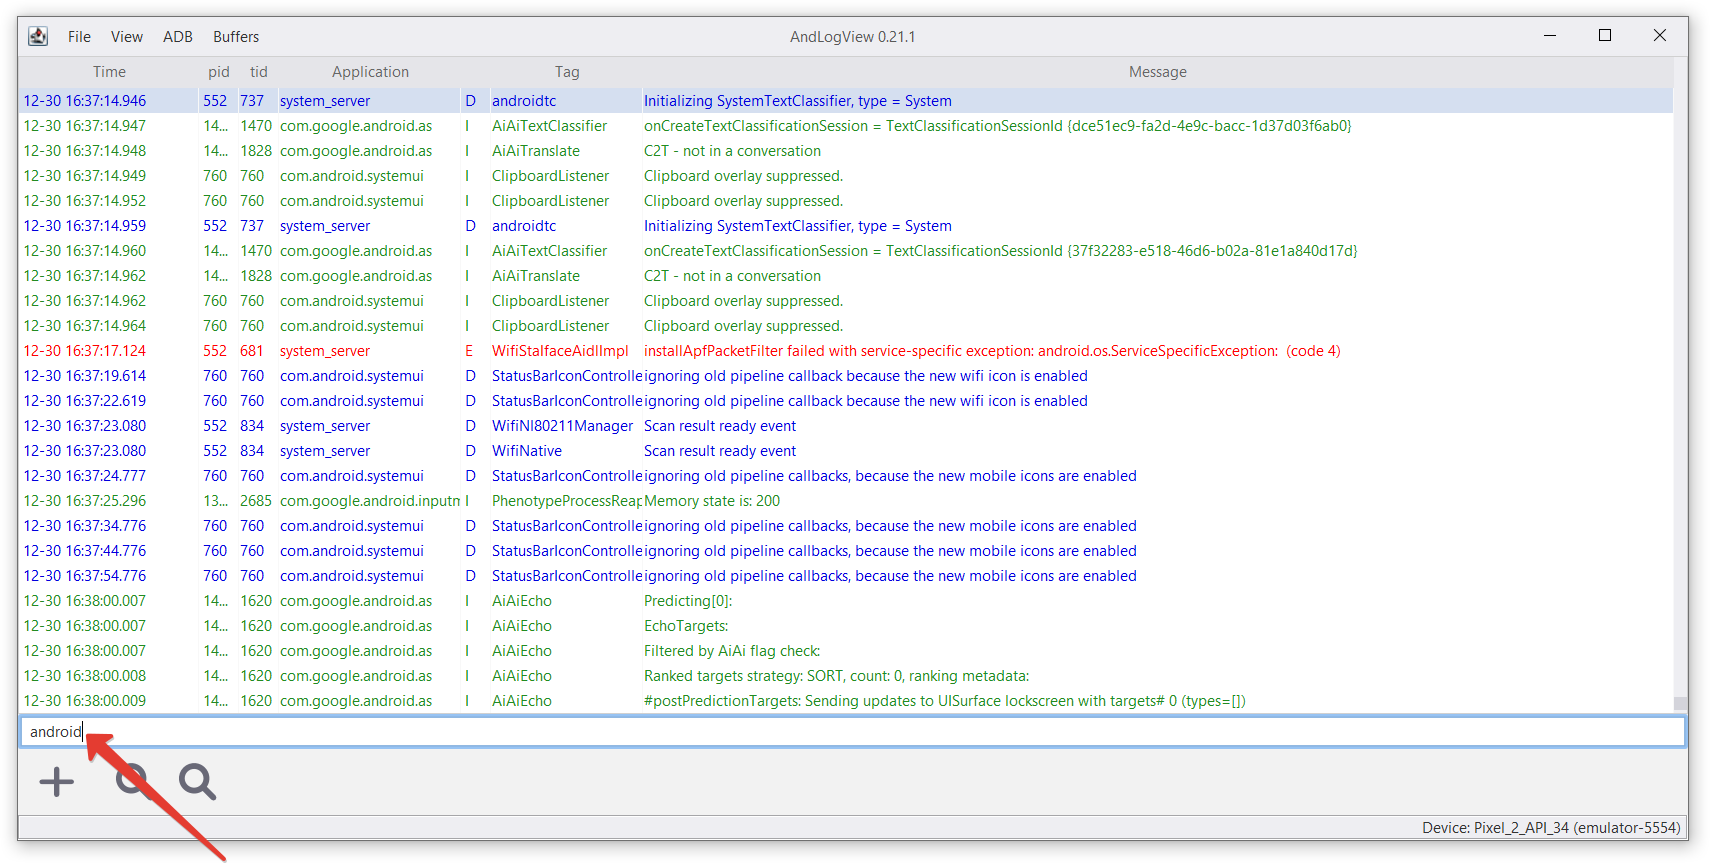
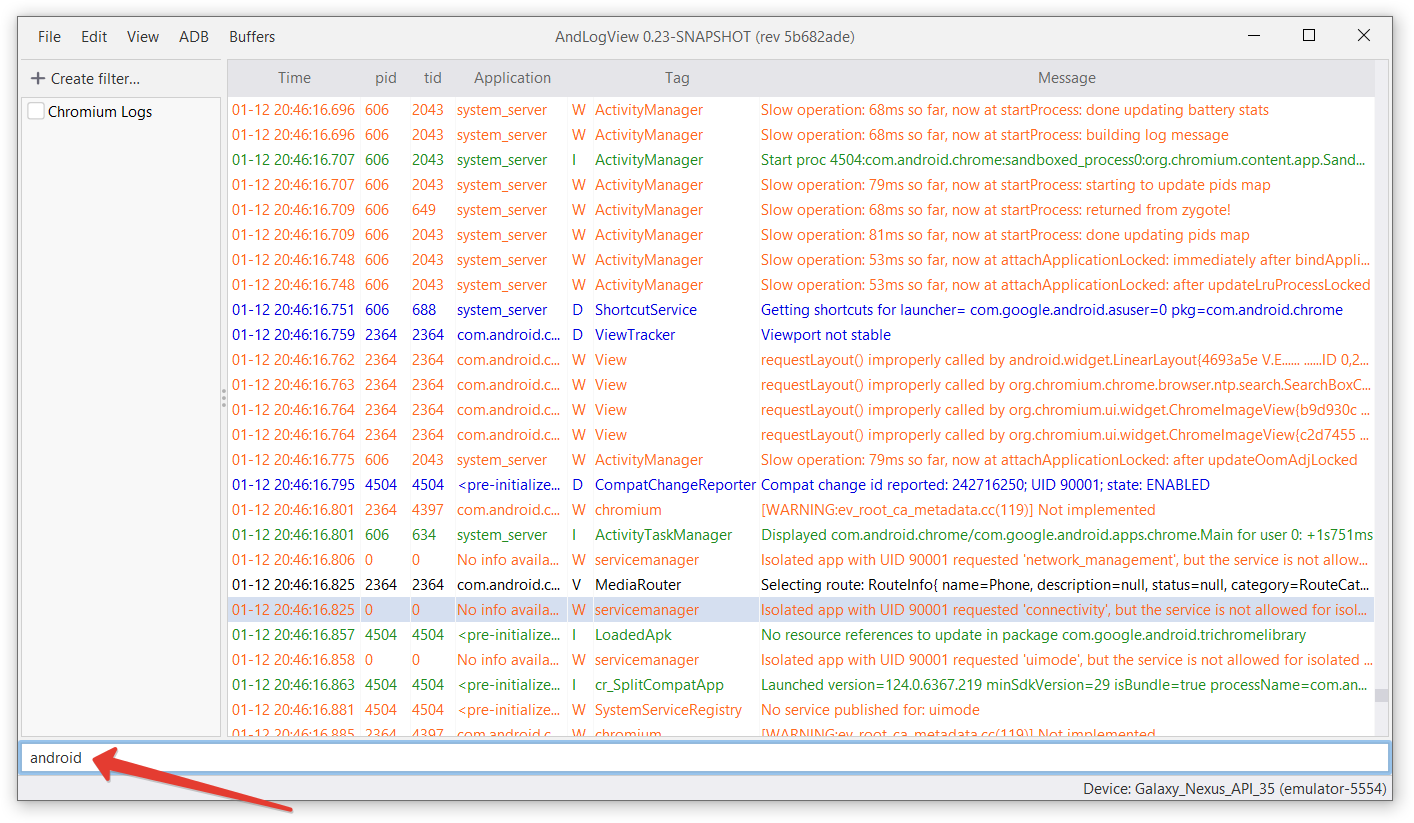
Update docs to cover filter lists
Issue: #426

Changed region(s): [[0.0, 0.0304, 0.9958, 1.0], [0.4045, 0.0304, 0.5912, 0.0608]]

diff --git a/docs/site/content/user_manual/filters/_index.en.md b/docs/site/content/user_manual/filters/_index.en.md
@@ -11,25 +11,28 @@ highlighted with a background color, hidden, or displayed in a separate window.
 
 ## Creating a filter
 
-Use "Add new filter" button to create a new filter:
+Use "Create filter…" button to create a new filter:
 
-![Add new filter button](add_filter.png)
+![Create filter button](add_filter.png)
 
 A filter creation dialog appears:
 
 !["Create new filter" dialog](create_filter.png)
 
-You can then specify filter criteria here:
+You can then specify the name of the filter and filtering criteria here:
+- "Name" -- the optional display name used, e.g. in the filter list. Without a
+   name the visual representation of the filter is derived from the criteria it
+   has.
 - "Tags to filter" -- the comma-separated list of tags to match
-- "Message text to filter" - the message substring to match
-- "<abbr title="Process IDentifier">PIDs</abbr> or app names to filter" -
+- "Message text to filter" -- the message substring to match
+- "<abbr title="Process IDentifier">PIDs</abbr> or app names to filter" --
   the comma-separated list of integer PIDs or app names.
-- "Log level" - the minimal log level to match.
+- "Log level" -- the minimal log level to match.
 
-If you specify multiple tags, then line need to match any of them to match. The
-same applies to PIDs and app names.
+If you specify multiple tags, then a line need to match any of them to match the
+filter. The same applies to PIDs and app names.
 
-The filter matches the log line only if all criterias are fulfilled. For
+The filter matches the log line only if all criteria are fulfilled. For
 example, if the filter specifies `tag=Foo` and `PID=143, 144` then lines with
 the tag `Foo` from PID 441 wouldn't match.
 
@@ -42,10 +45,15 @@ The radio buttons determine the filter's action. The matched lines can be:
 ## Index window
 
 An index window is a separate window that only shows lines matching the filter.
-You can double-click on line numbers in the index window to scroll the main
+You can double-click line numbers in the index window to scroll the main
 window to them.
 
 ![Index window](index_window.png)
+
+{{< hint type=note >}}
+The lines visible in the filter are affected by the "show" and "hide" filters,
+and the relative order of filters in the list.
+{{< /hint >}}
 
 ## Filter criteria
 ### Tags
@@ -101,7 +109,7 @@ to match the whole string only.
 It is safe to use the slash symbol `/` in the regular expression. However,
 commas in tag and app name patterns must be escaped by doubling it. For example,
 to use the pattern `/foo, bar/` as a tag pattern you must enter it as
-`/foo,, bar/`. Otherwise it is going to be interpreted as two simple patterns
+`/foo,, bar/`. Otherwise, it is going to be interpreted as two simple patterns
 `/foo` and `bar/`.
 
 [java_pattern]: http://download.oracle.com/javase/8/docs/api/java/util/regex/Pattern.html
@@ -116,45 +124,44 @@ If you have created multiple filters the following rules apply:
 4. If there is a highlighting filter and the log line isn't hidden by the rules
    above, it is highlighted with the corresponding color
 5. If the line was added to bookmarks and isn't hidden it is highlighted
-6. Lines that are hidden in the main window, are not visible in index windows.
+6. Index window applies all show and hide filters of the main window that
+   precede its filter in the filter list.
 
-Only lines in the main window are highlighted.
+Only lines in the main window are highlighted. The highlight color is determined
+by the last highlighting filter.
 
-## Filter panel
+## Filter list
 
-The filter panel is located to the right of the "Add new filter" button. Each
-filter has a corresponding button on the filter panel.
+The filter list is located on the right side of the main window. Each
+filter has a corresponding entry in the filter list. The entry shows either the
+name of the filter if it has one, or a summary of the filter's action and
+criteria.
 
-![Filter panel](filter_panel.png)
+![Filter list](filter_tree.png)
 
-{{< hint type=tip >}}
-Double-clicking the empty space of the filter panes opens the filter creation
-dialog too.
-{{< /hint >}}
-
-The filter button can be in two states: pressed, when the filter is active, and
-not pressed, when the filter is temporary disabled.
+The filter can be in two states: enabled (with checkbox checked), when the
+filter is active, and disabled (with checkbox unchecked), when the filter is
+temporarily skipped. You can toggle between these states by clicking on the
+checkbox or by selecting a filter and pressing <kbd><kbd>Space</kbd></kbd>
 
 If the filter's action is "Show in index window", then toggling the filter
 toggles visibility of the corresponding index window. Closing the index window
-unpresses the button.
+unchecks the checkbox.
 
-A tooltip of the filter button shows a summary of the filter:
+A tooltip of the filter item shows a summary of the filter:
 
-![Filter button tooltip](filter_tooltip.png)
-
-When you have too many filters to fit in the panel, scroll buttons appear on the
-left and the right sides.
-
-![Scroll buttons of the filter panel](filter_panel_scroll.png)
+![Filter item tooltip](filter_tooltip.png)
 
 ## Edit or remove a filter
 
-Use a filter button's context menu to edit or remove the filter.
+Use the filter item's context menu to edit or remove the filter.
 
 ![Context menu to edit or remove filter](filter_context_menu.png)
 
-Edited filter moves to the end of the filter panel.
+## Reorder filter
+
+Drag and drop filters to change their order. Highlighting filters and index
+window filters are sensitive to the order.
 
 ## Quick filters
 

diff --git a/docs/site/content/user_manual/search/_index.en.md b/docs/site/content/user_manual/search/_index.en.md
@@ -17,7 +17,7 @@ All occurences of the pattern are highlighted (and in the tooltip too)
 
 Use <kbd><kbd>F3</kbd></kbd> and <kbd><kbd>Shift</kbd><kbd>F3</kbd></kbd> to navigate between search result forward and backward.
 
-If there is no more occurences of the pattern in the given direction from the
+If there is no more occurrences of the pattern in the given direction from the
 selected line then the message appears in the status bar.
 
 ![Search showing "Text not found"](search_not_found.png)
